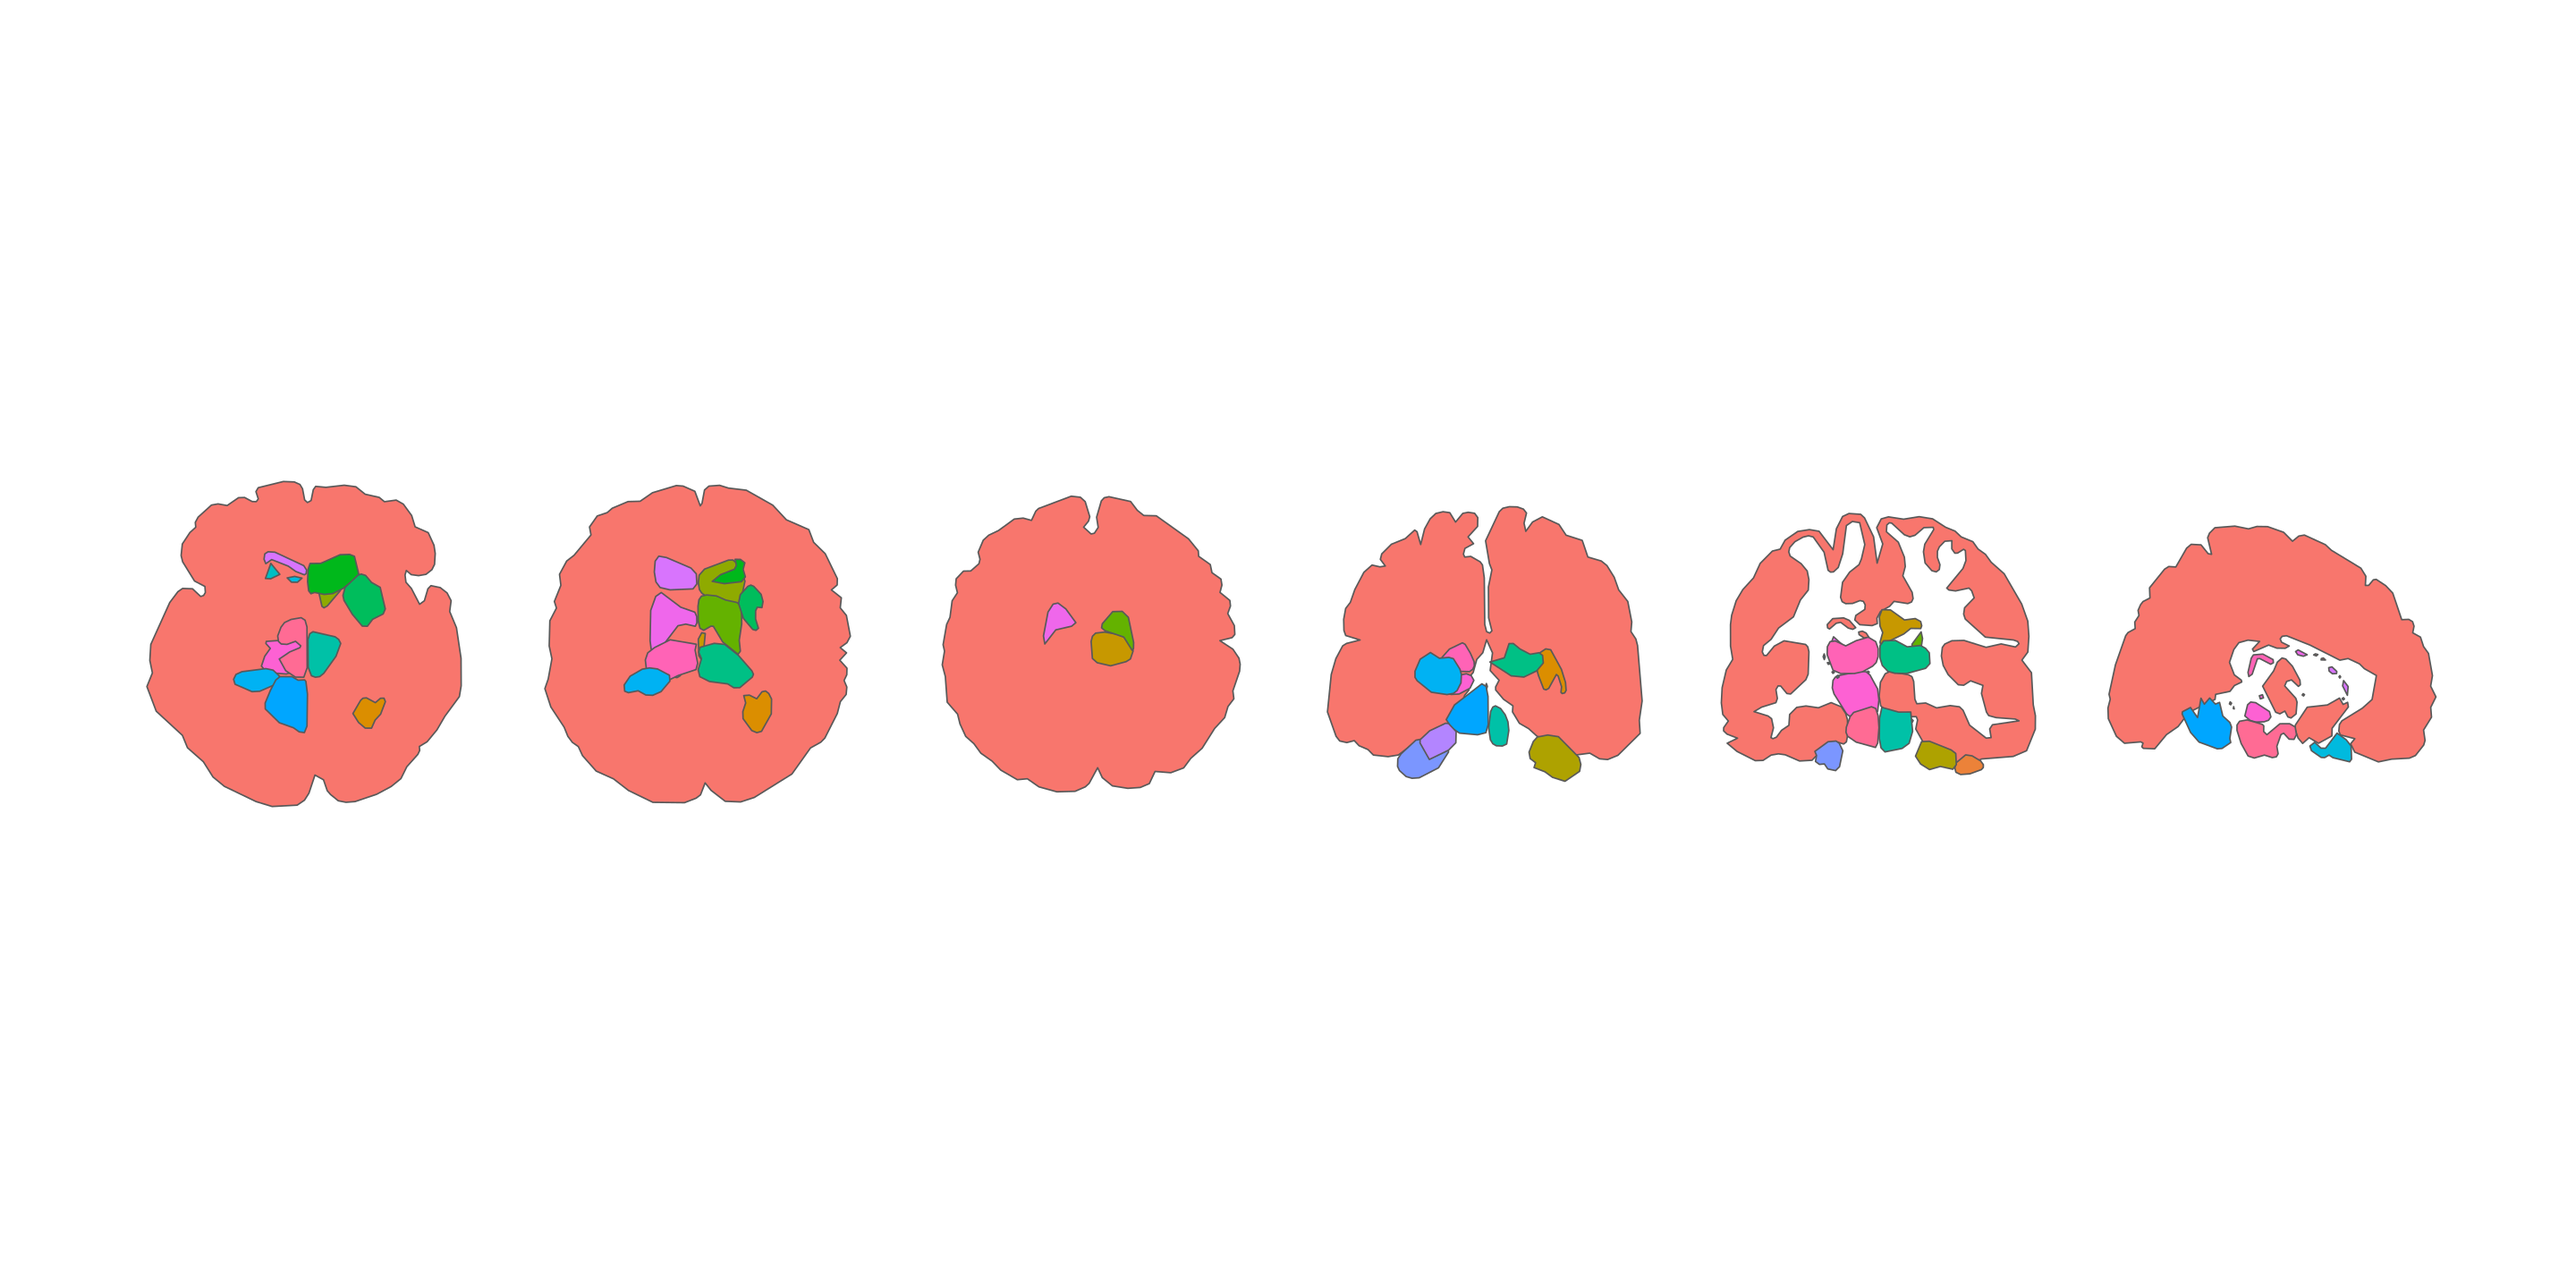
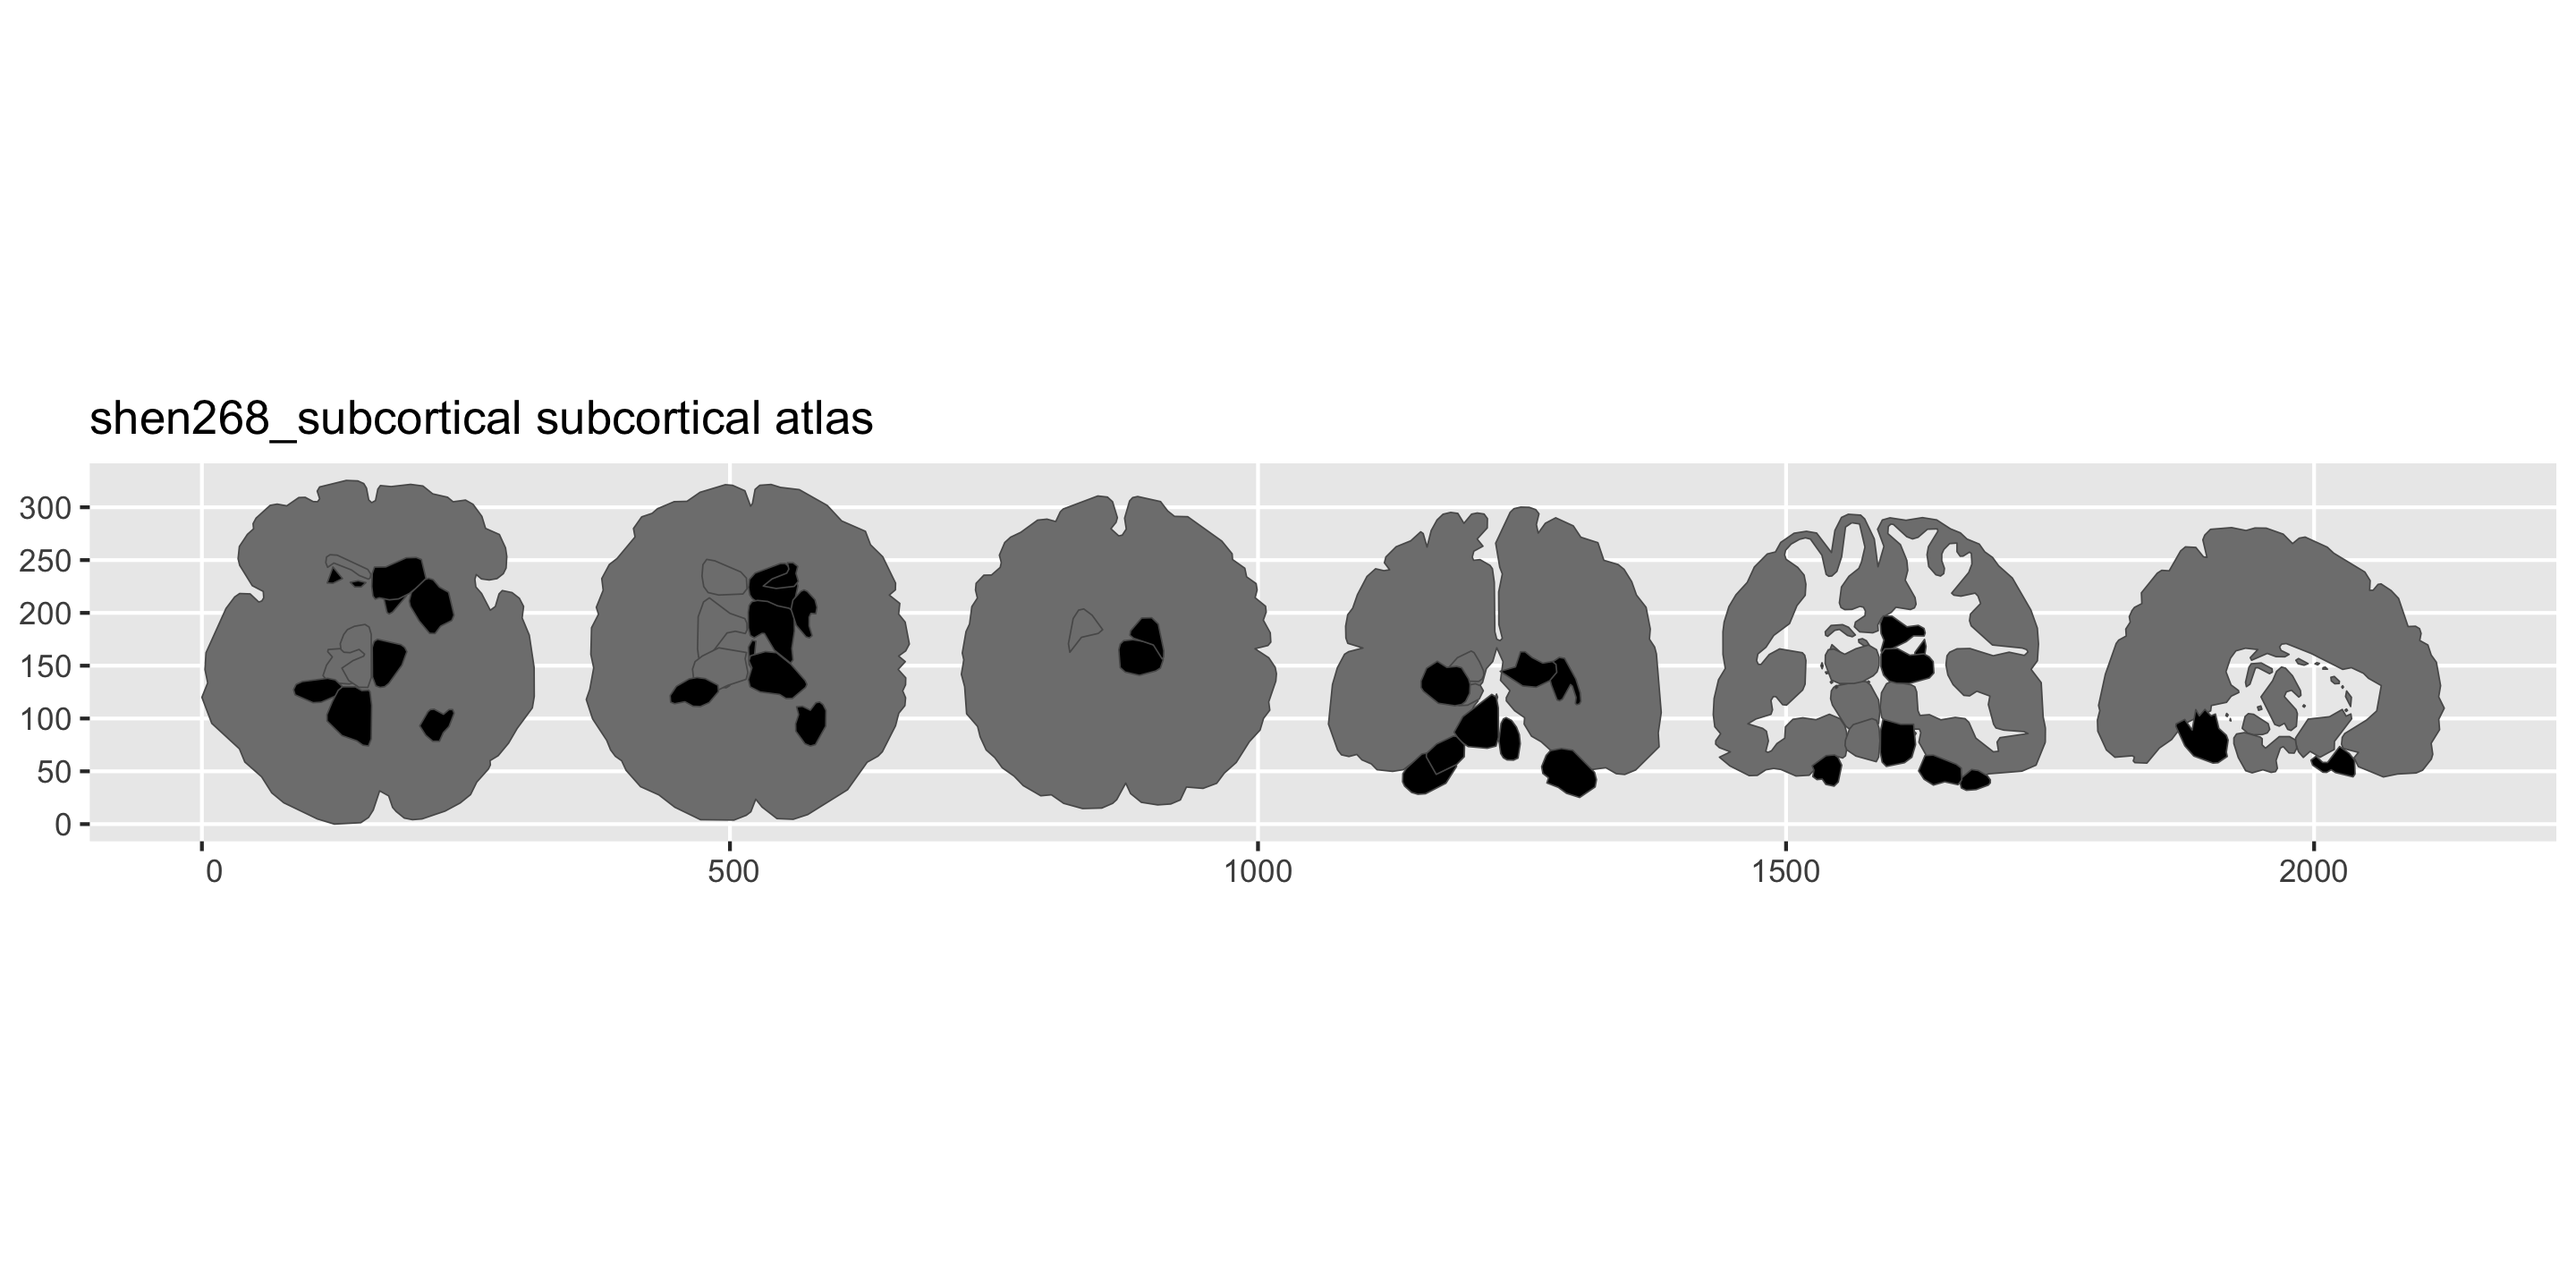
Simplify README plot examples to use plot()
Remove explicit ggplot() + geom_brain(mapping = aes(fill = label)) +
scale_fill_manual() in favour of plot(), which handles colours by default.

Changed region(s): [[0.0, 0.3125, 1.0, 0.6875]]

diff --git a/README.md b/README.md
@@ -42,16 +42,8 @@ pak::pak("ggsegverse/ggsegShen")
 ``` r
 library(ggseg)
 library(ggsegShen)
-library(ggplot2)
 
-ggplot() +
-  geom_brain(
-    atlas = shen268_cortical(),
-    mapping = aes(fill = label),
-    position = position_brain(hemi ~ view),
-    show.legend = FALSE
-  ) +
-  theme_void()
+plot(shen268_cortical())
 ```
 
 <img src="man/figures/README-shen-cortical-1.png"
@@ -60,14 +52,7 @@ style="width:100.0%" />
 ## Subcortical atlas
 
 ``` r
-ggplot() +
-  geom_brain(
-    atlas = shen268_subcortical(),
-    mapping = aes(fill = label),
-    position = position_brain(. ~ view),
-    show.legend = FALSE
-  ) +
-  theme_void()
+plot(shen268_subcortical())
 ```
 
 <img src="man/figures/README-shen-subcortical-1.png"
